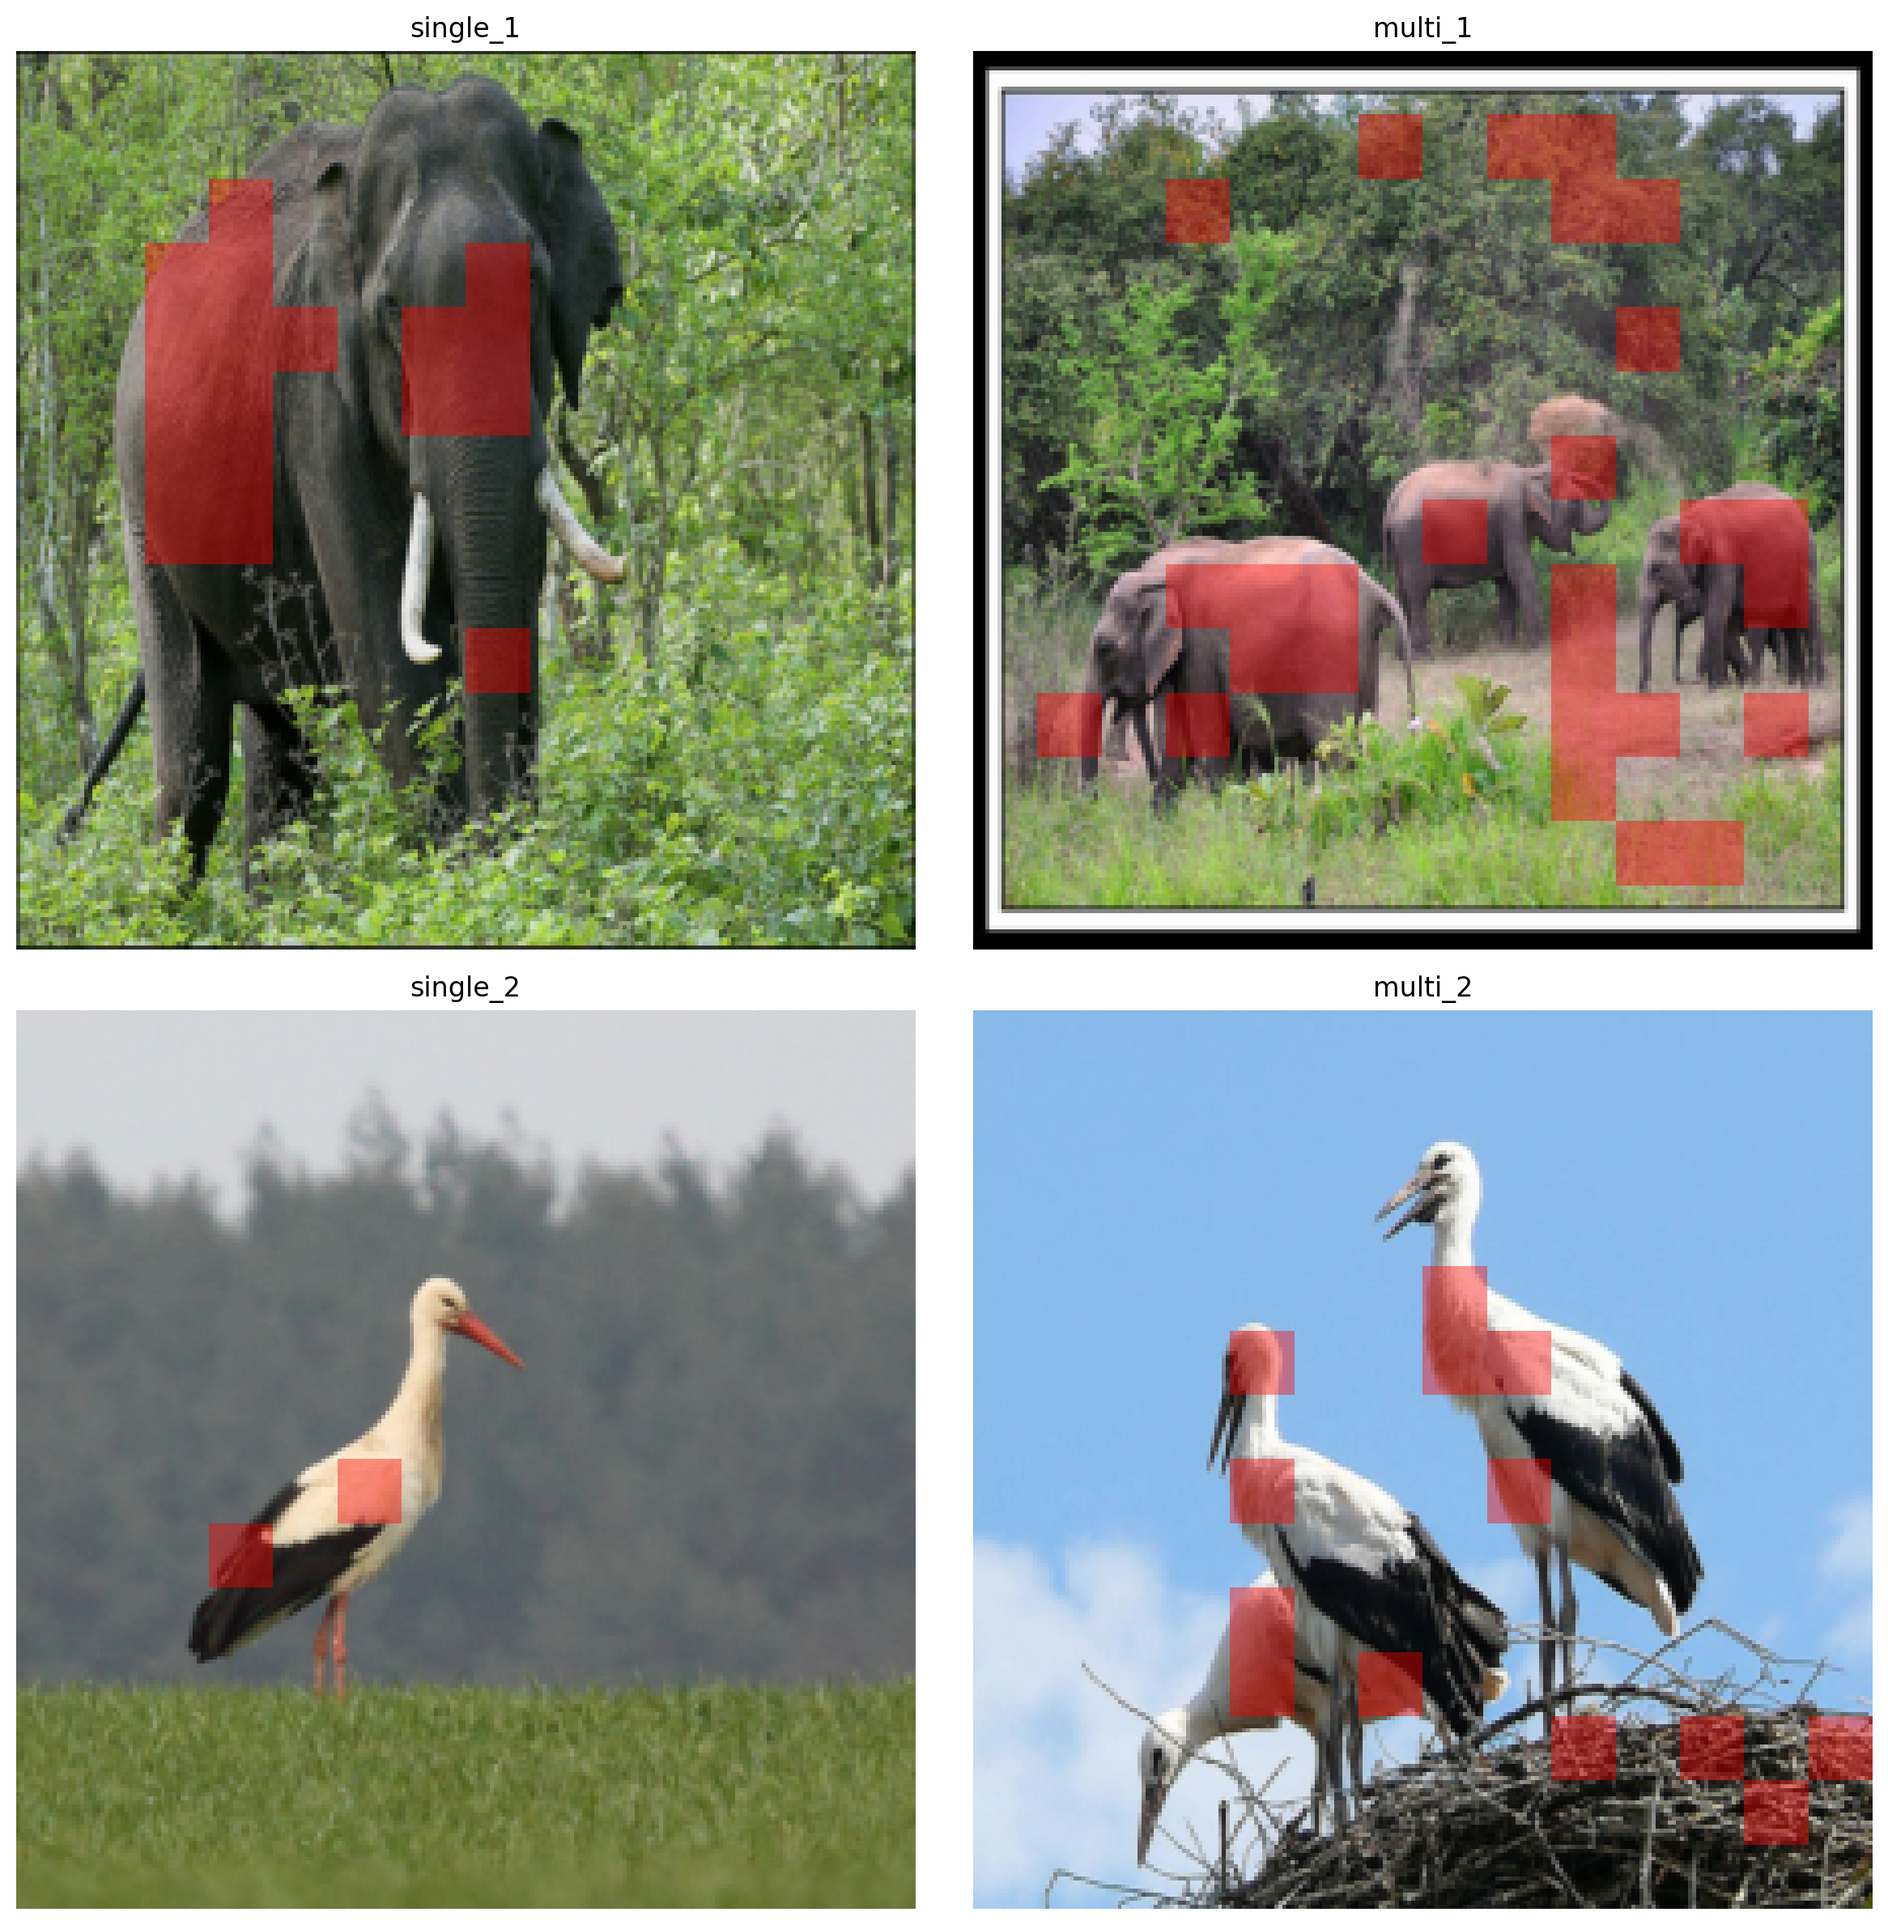
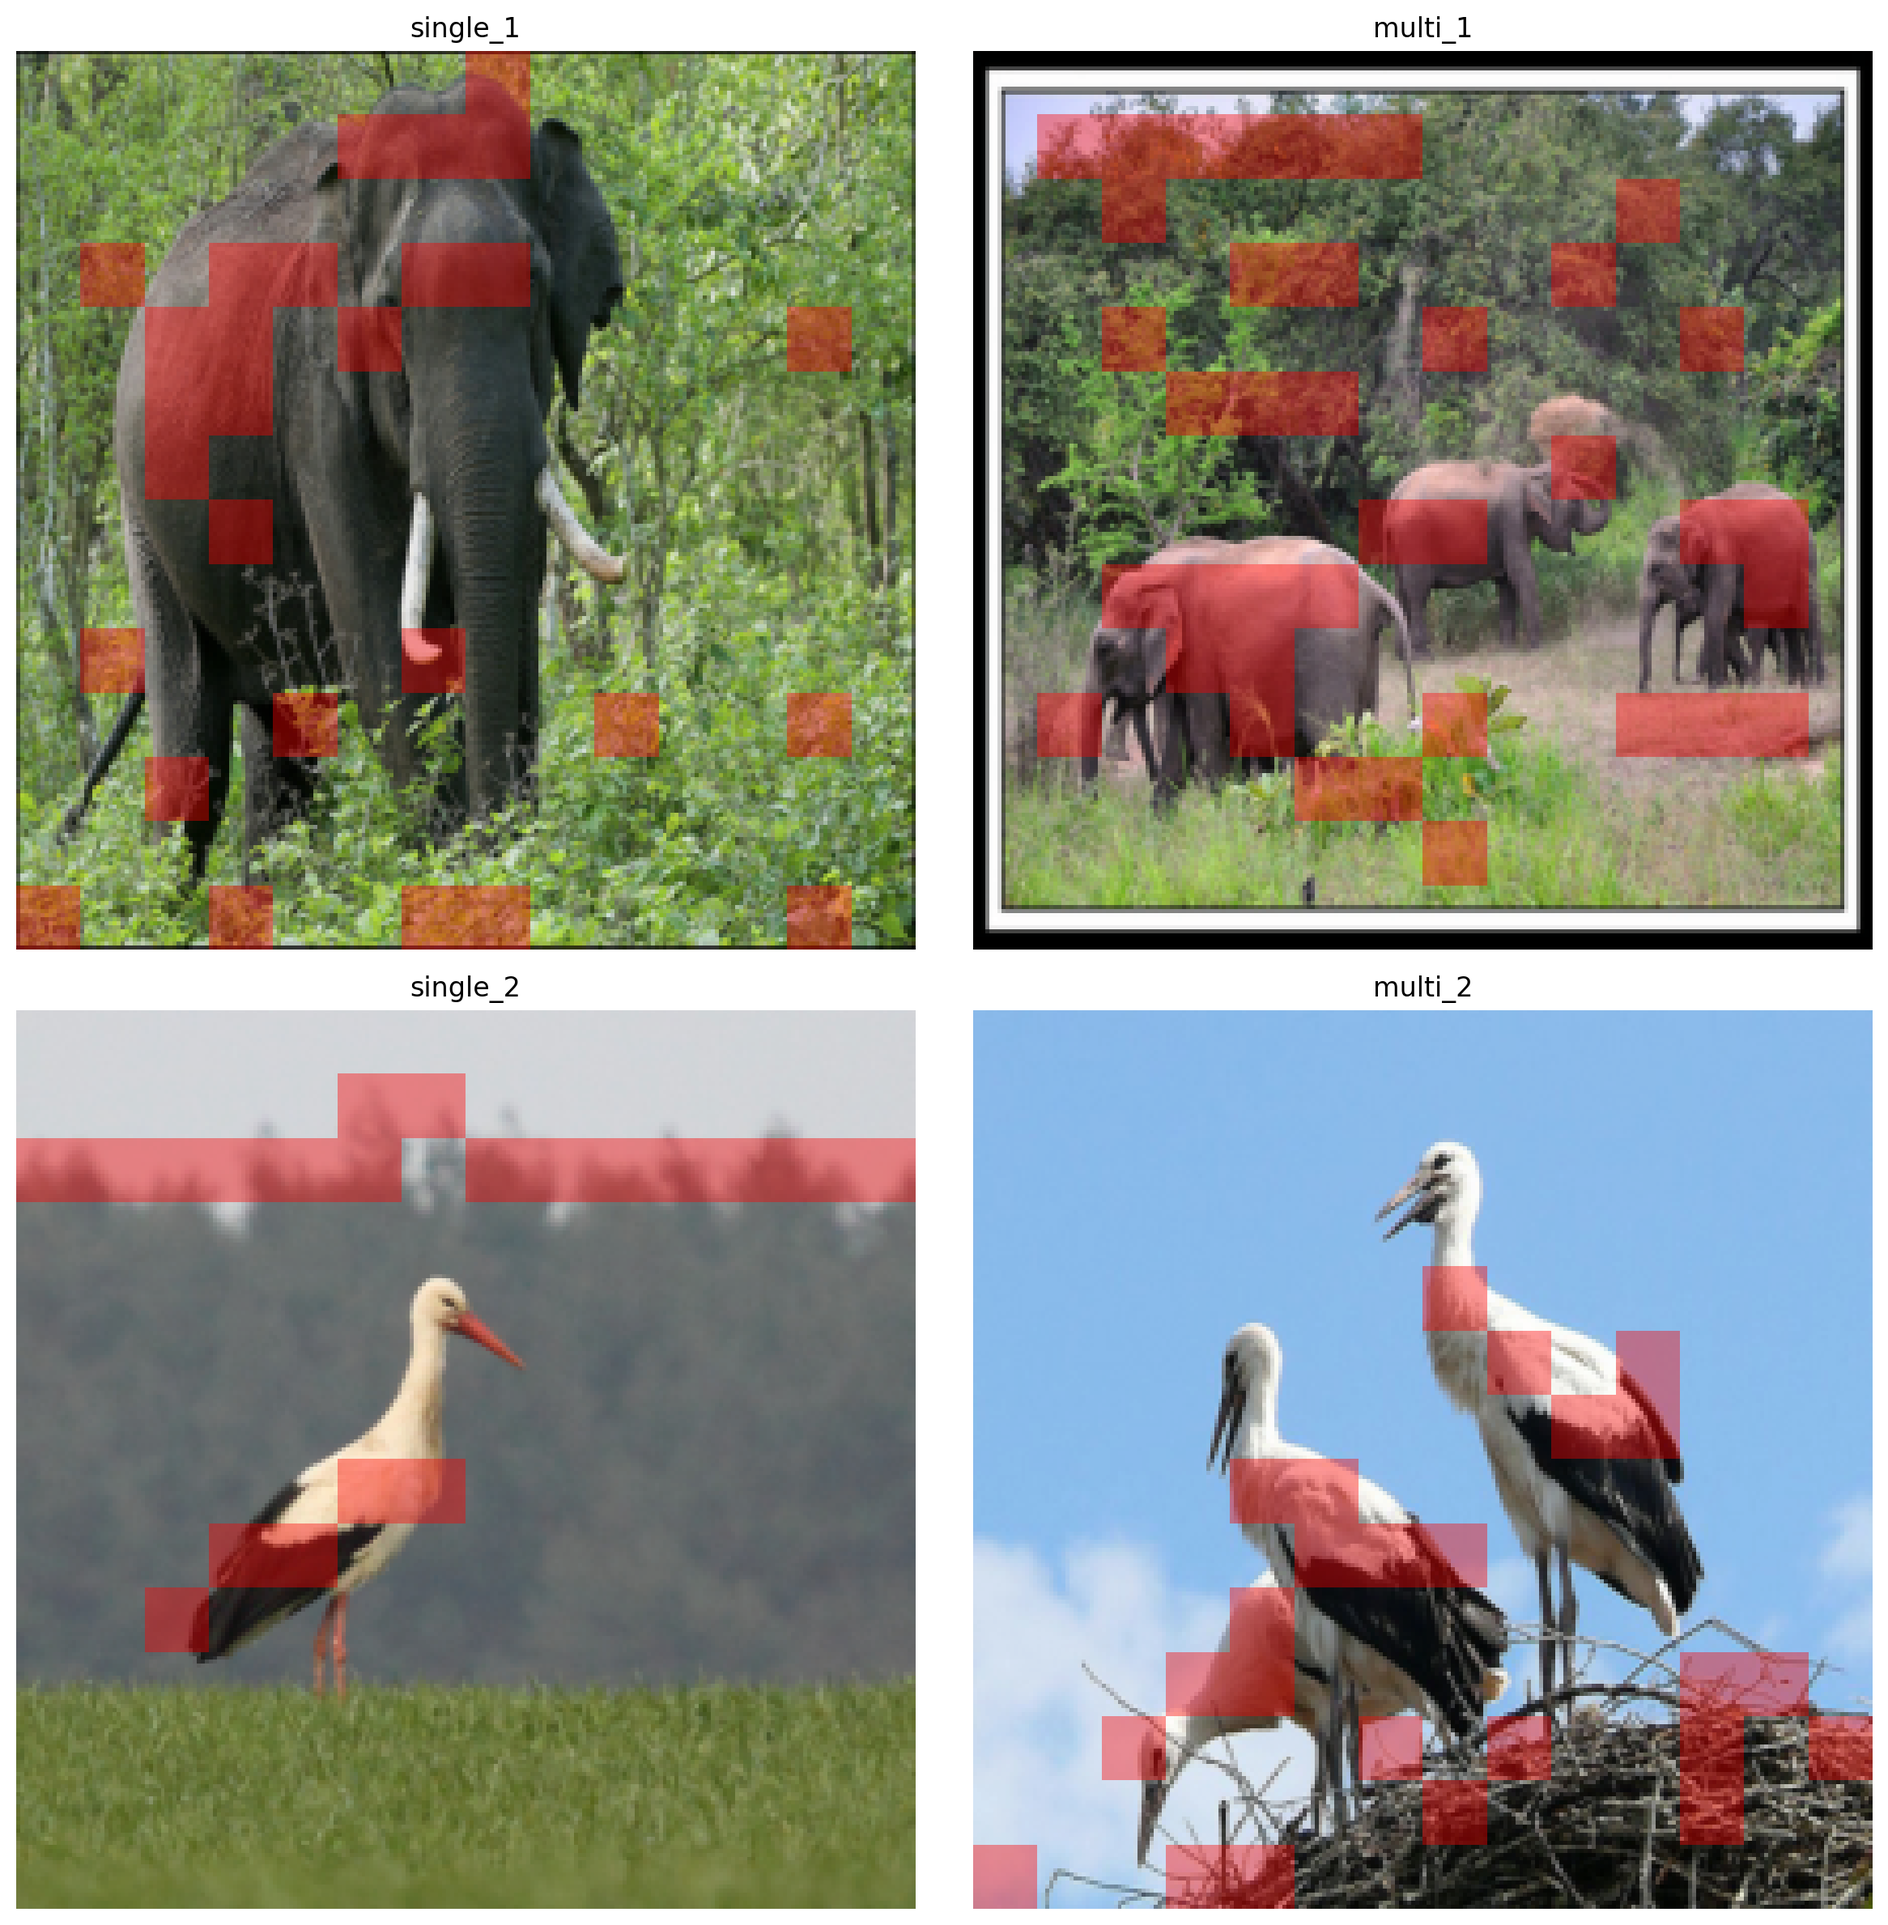
gather some initial visualizations; let them run

diff --git a/src/imagenet_ckpt_vit.py b/src/imagenet_ckpt_vit.py
@@ -785,21 +785,26 @@ def main():
     #ckpt_path = "/fs/scratch/PAS2836/yusenpeng_checkpoint/imagenet_DRIP_temp_005/model_19.pth"
     
     
-    ckpt_path = "/fs/scratch/PAS2836/yusenpeng_checkpoint/imagenet_DRIP_temp_01/model_9.pth"
+    # ckpt_path = "/fs/scratch/PAS2836/yusenpeng_checkpoint/imagenet_DRIP_temp_01/model_9.pth"
 
-    """
-    all zeros: 3rd
-    becoming meaningful: 9th
-    """
+    # """
+    # all zeros: 3rd
+    # becoming meaningful: 9th
+    # """
 
 
-    # ckpt_path = "/fs/scratch/PAS2836/yusenpeng_checkpoint/imagenet_DRIP_4x_01temp_300epochs/model_10.pth"
+    # # ckpt_path = "/fs/scratch/PAS2836/yusenpeng_checkpoint/imagenet_DRIP_4x_01temp_300epochs/model_10.pth"
 
-    """
-    300 epochs
-    all zeros: 9th
-    callapsed: 10th
-    """
+    # """
+    # 300 epochs
+    # all zeros: 9th
+    # callapsed: 10th
+    # """
+
+
+    ckpt_path = "/fs/scratch/PAS2836/yusenpeng_checkpoint/imagenet_DRIP_4x_01_warmup2/model_6.pth" 
+    ckpt_path = "/fs/scratch/PAS2836/yusenpeng_checkpoint/imagenet_DRIP_4x_01_warmup5/model_6.pth" 
+
     
 
     

diff --git a/README.md b/README.md
@@ -52,9 +52,6 @@ for ImageNet
 
 ```bash
 python src/imagenet_ckpt_vit.py
-# or 
-python src/imagenet_ckpt_qwen2.py
-
 ```
 
 
